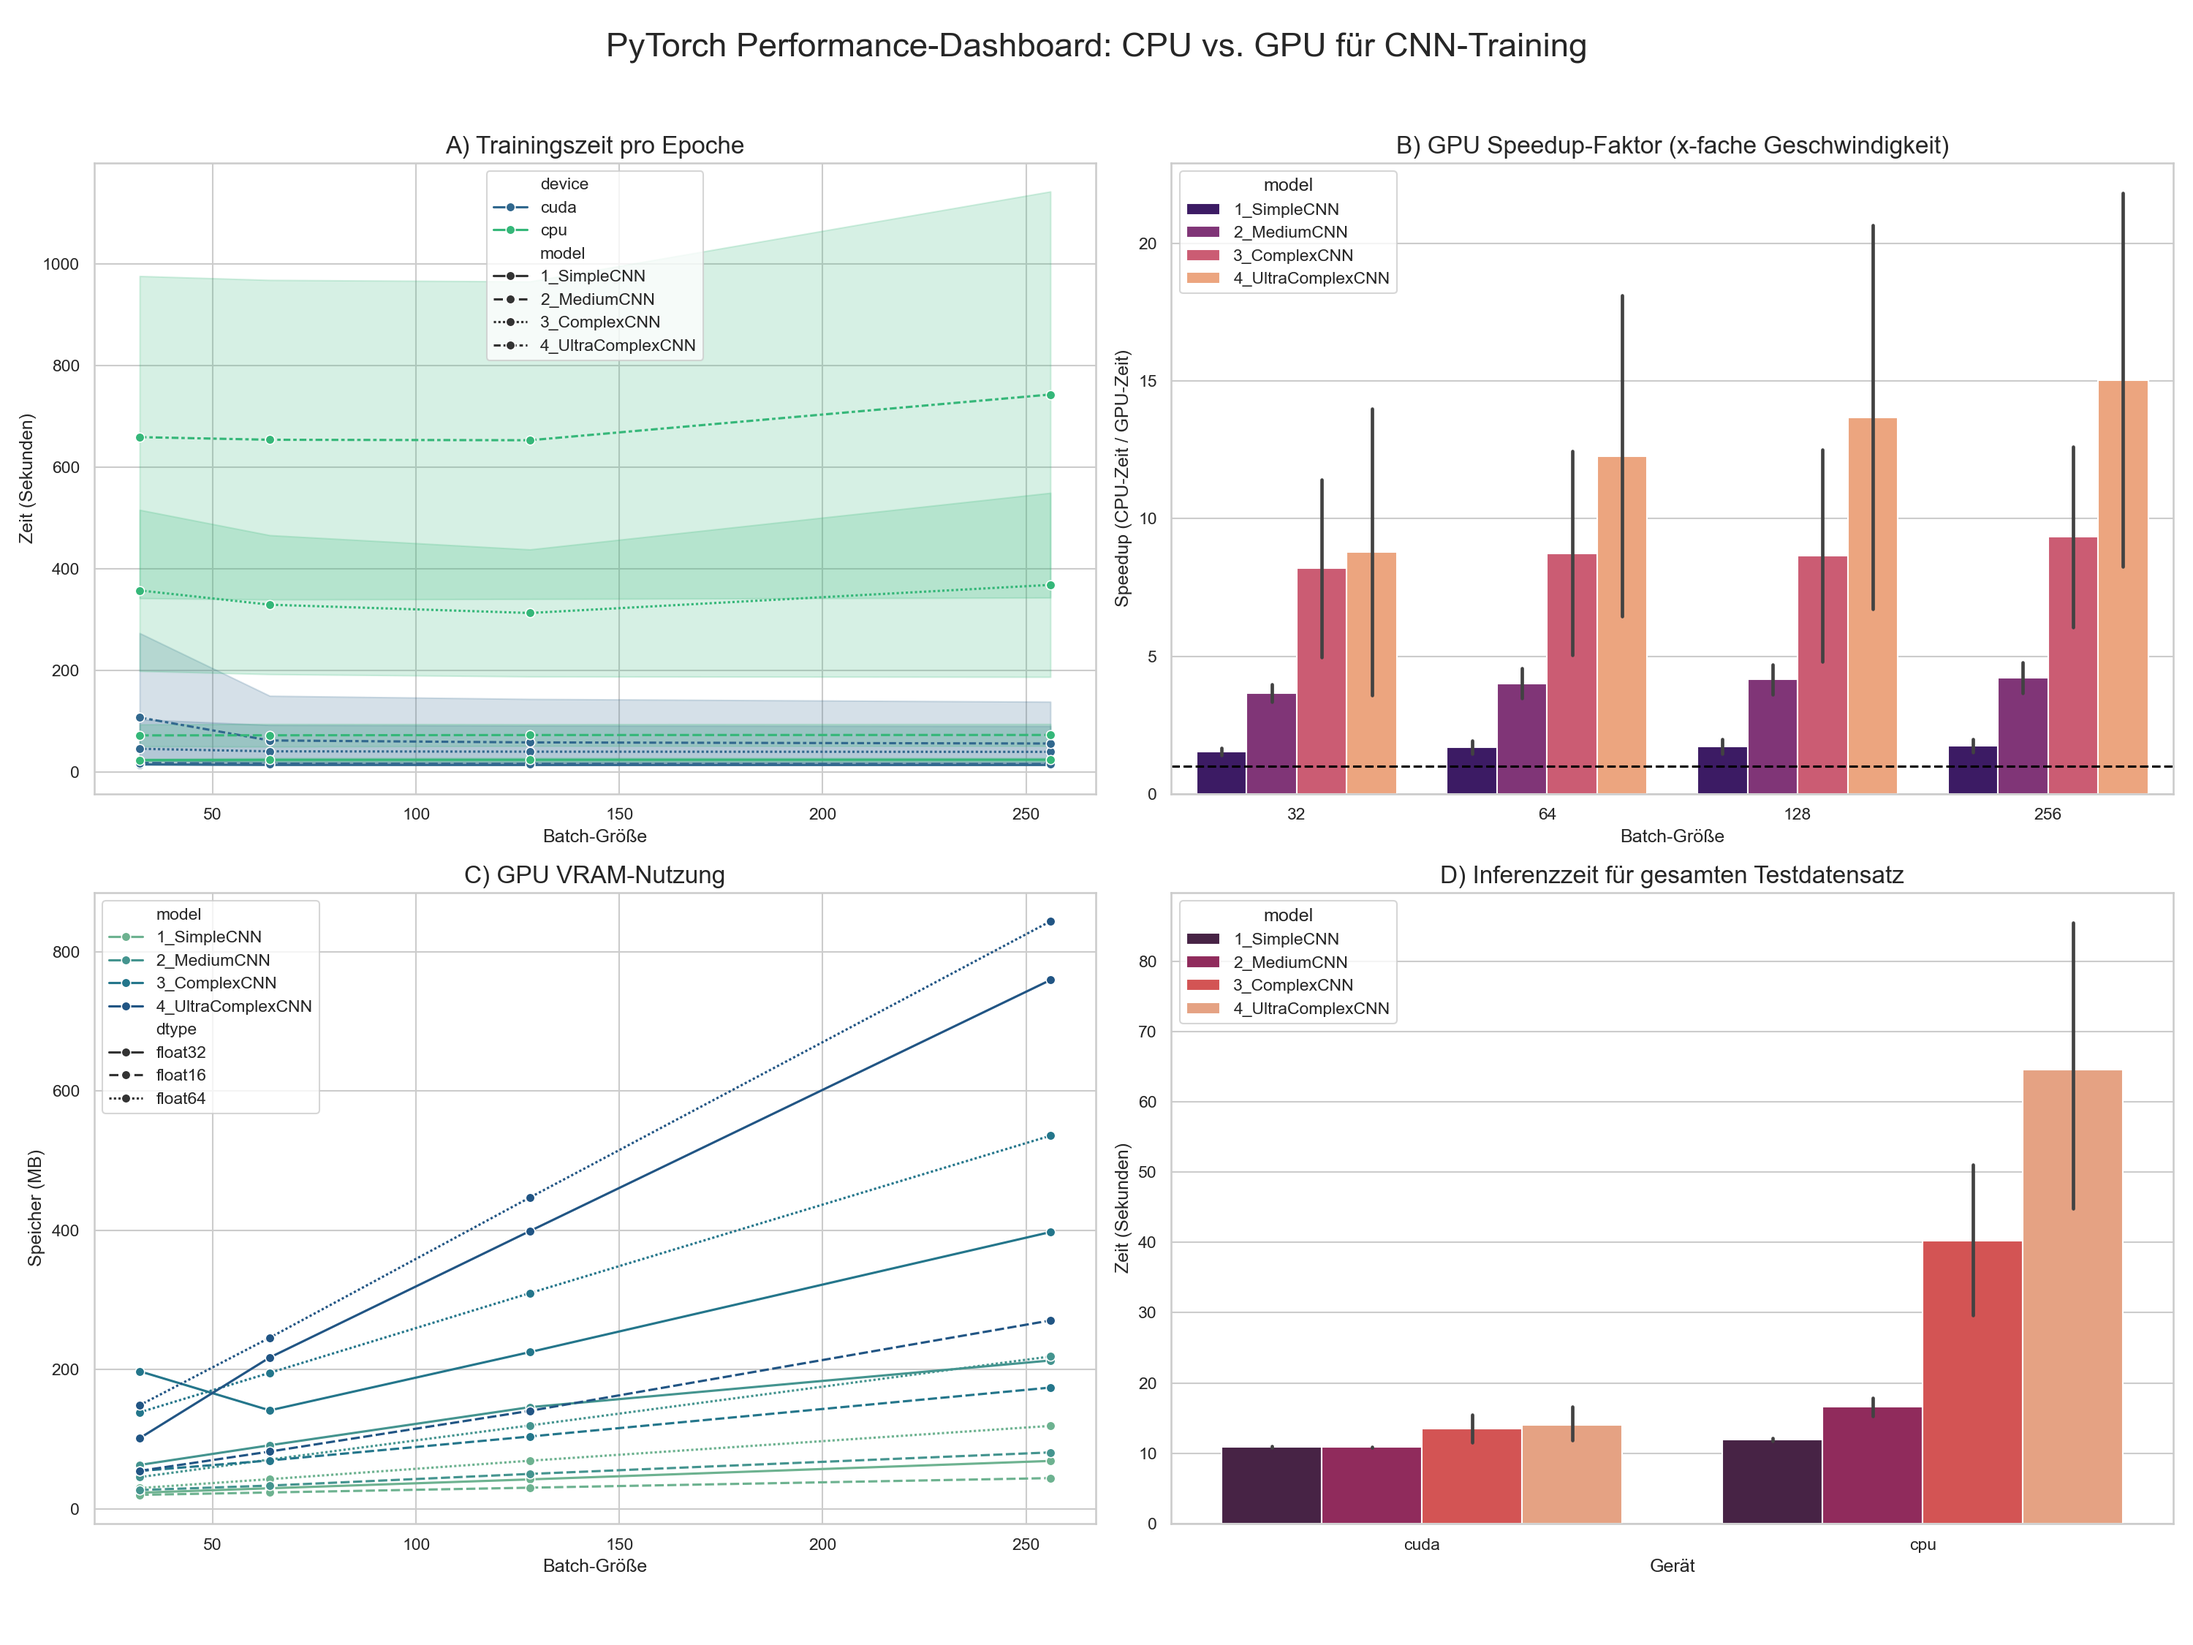
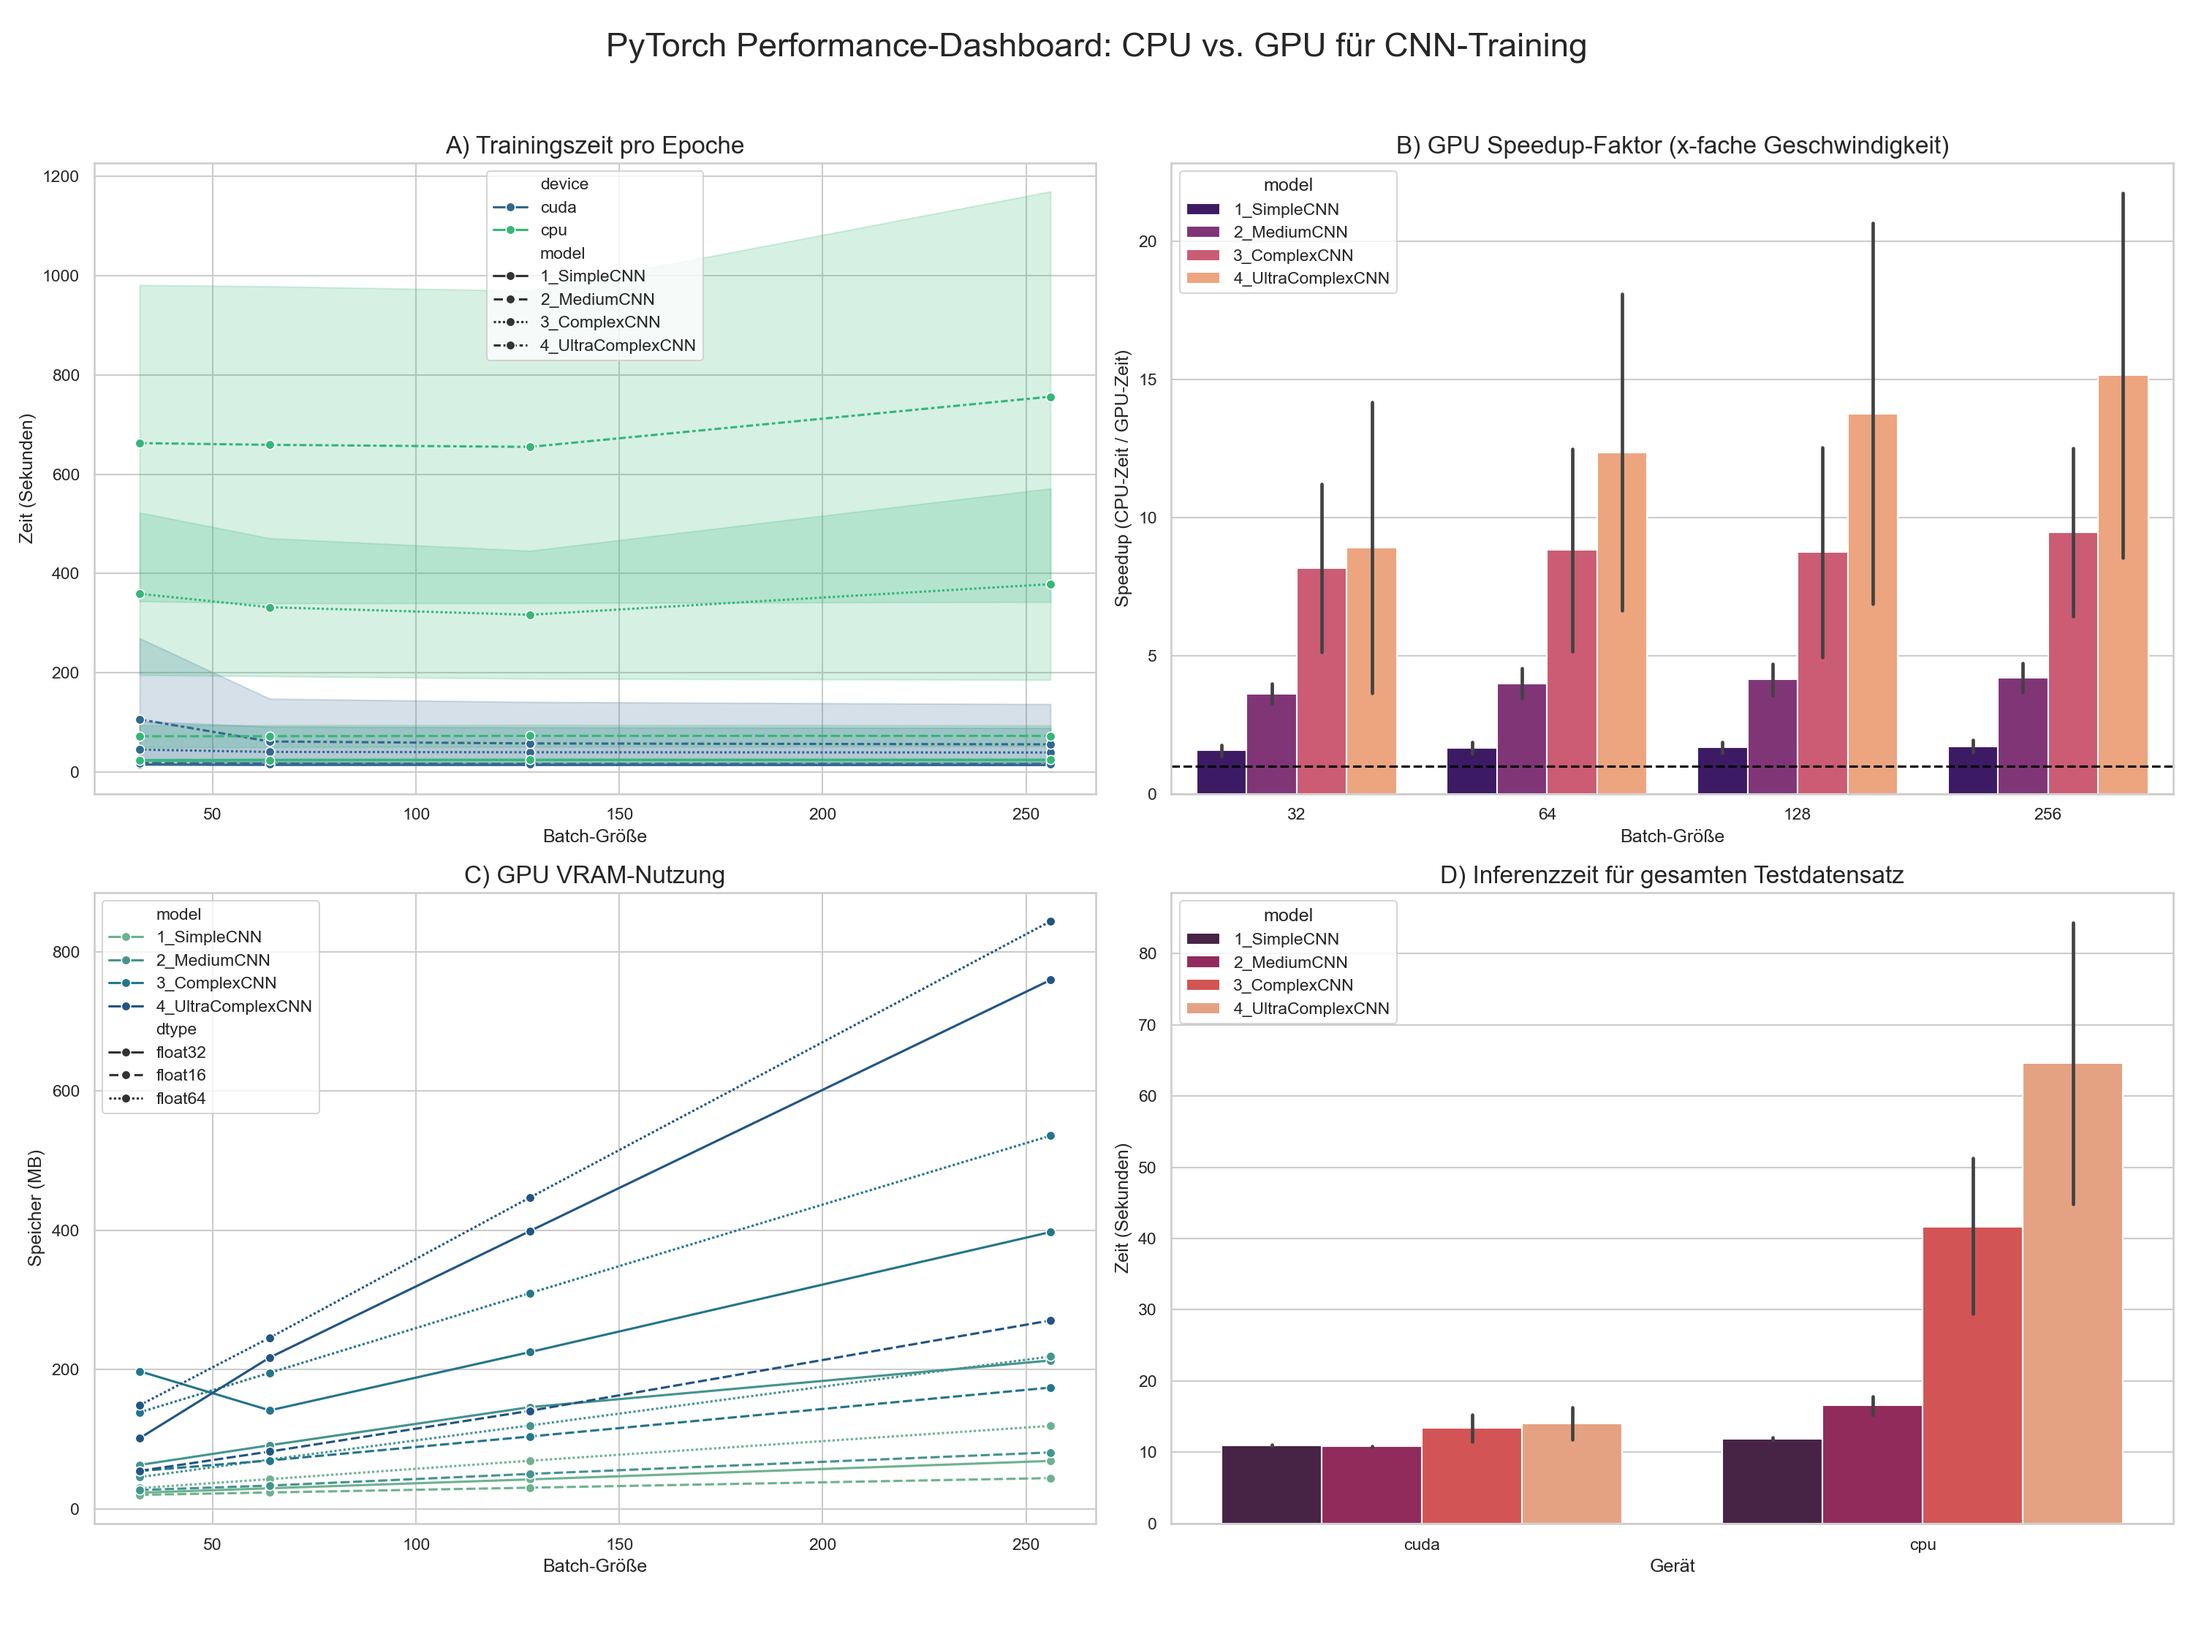
neupytorch

diff --git a/Experimente/Experiment_pytorch.py b/Experimente/Experiment_pytorch.py
@@ -51,6 +51,7 @@ DTYPES_TO_TEST = {
 # =============================================================================
 
 # Stufe 1: Einfachstes Modell
+
 class SimpleCNN(nn.Module):
     """
     Stufe 1: Ein sehr einfaches CNN als Baseline.
@@ -193,32 +194,13 @@ def train_one_epoch(model, loader, optimizer, loss_fn, device):
 
 def measure_inference_time(model, loader, device):
     """Misst die Zeit für die Inferenz über den gesamten Testdatensatz."""
-    model.eval()
-    model_dtype = next(model.parameters()).dtype
-
-    # NEU: Warm-up-Durchlauf, um einmalige GPU-Initialisierungskosten zu absorbieren.
-    # Wir nehmen den ersten Batch aus dem Loader für den Warm-up.
-    try:
-        warmup_data, _ = next(iter(loader))
-        warmup_data = warmup_data.to(device, dtype=model_dtype)
-        with torch.no_grad():
-            # Ein paar Durchläufe, um sicherzugehen, dass alle Kernel kompiliert sind.
-            for _ in range(3):
-                _ = model(warmup_data)
-    except StopIteration:
-        # Falls der Loader leer ist, können wir nichts messen.
-        return 0.0
-
-    # Synchronisieren, um sicherzustellen, dass der Warm-up abgeschlossen ist, bevor der Timer startet.
-    if device.type == 'cuda':
-        torch.cuda.synchronize()
-
-    # Jetzt beginnt die eigentliche, korrekte Messung
+    model.eval() # Setzt das Modell in den Evaluationsmodus (deaktiviert z.B. Dropout).
     start_time = time.time()
-    with torch.no_grad():
+    model_dtype = next(model.parameters()).dtype
+    with torch.no_grad(): # Deaktiviert die Gradientenberechnung, um Speicher und Rechenzeit zu sparen.
         for data, _ in loader:
             data = data.to(device, dtype=model_dtype)
-            _ = model(data)
+            model(data)
     if device.type == 'cuda':
         torch.cuda.synchronize()
     end_time = time.time()
